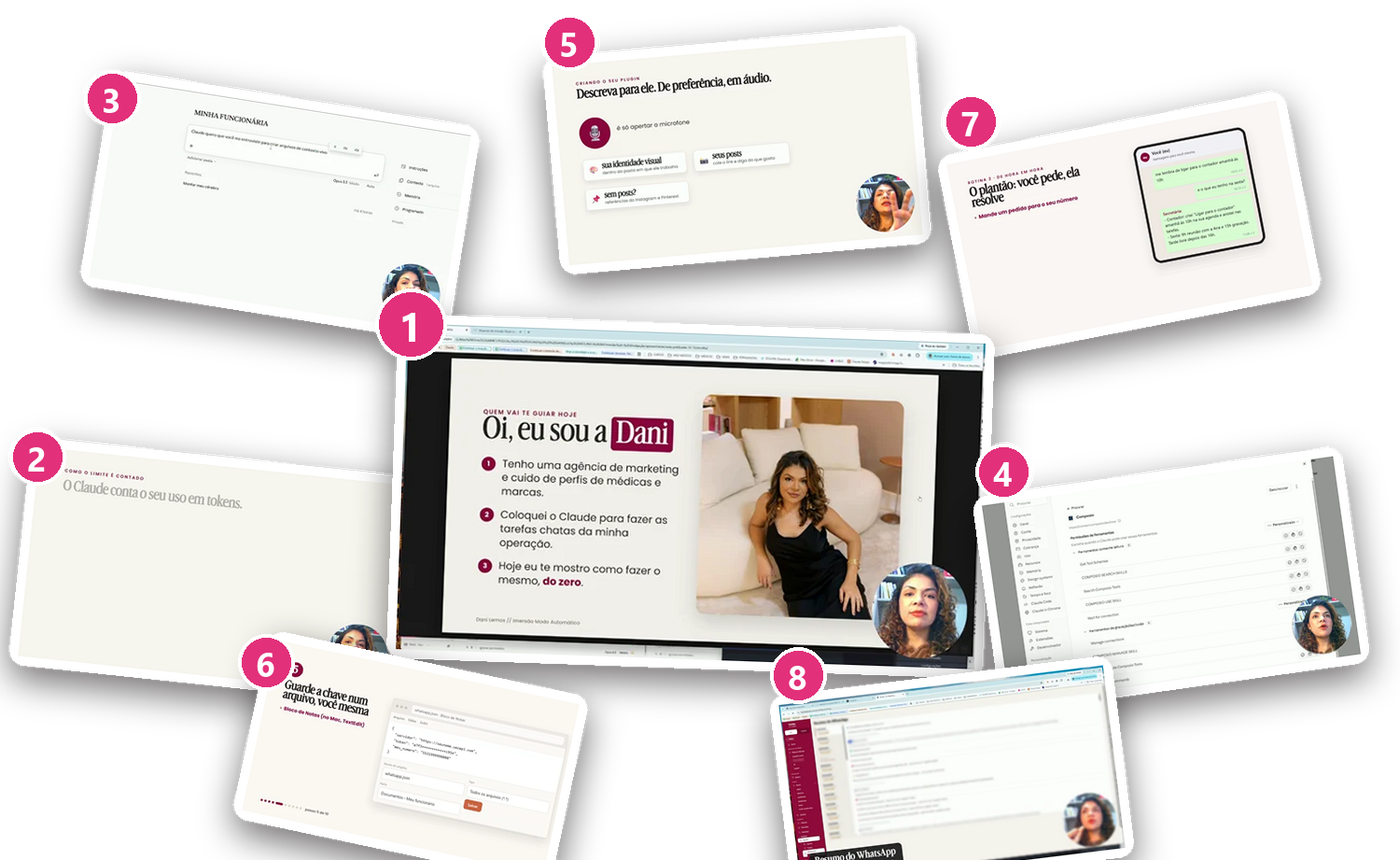
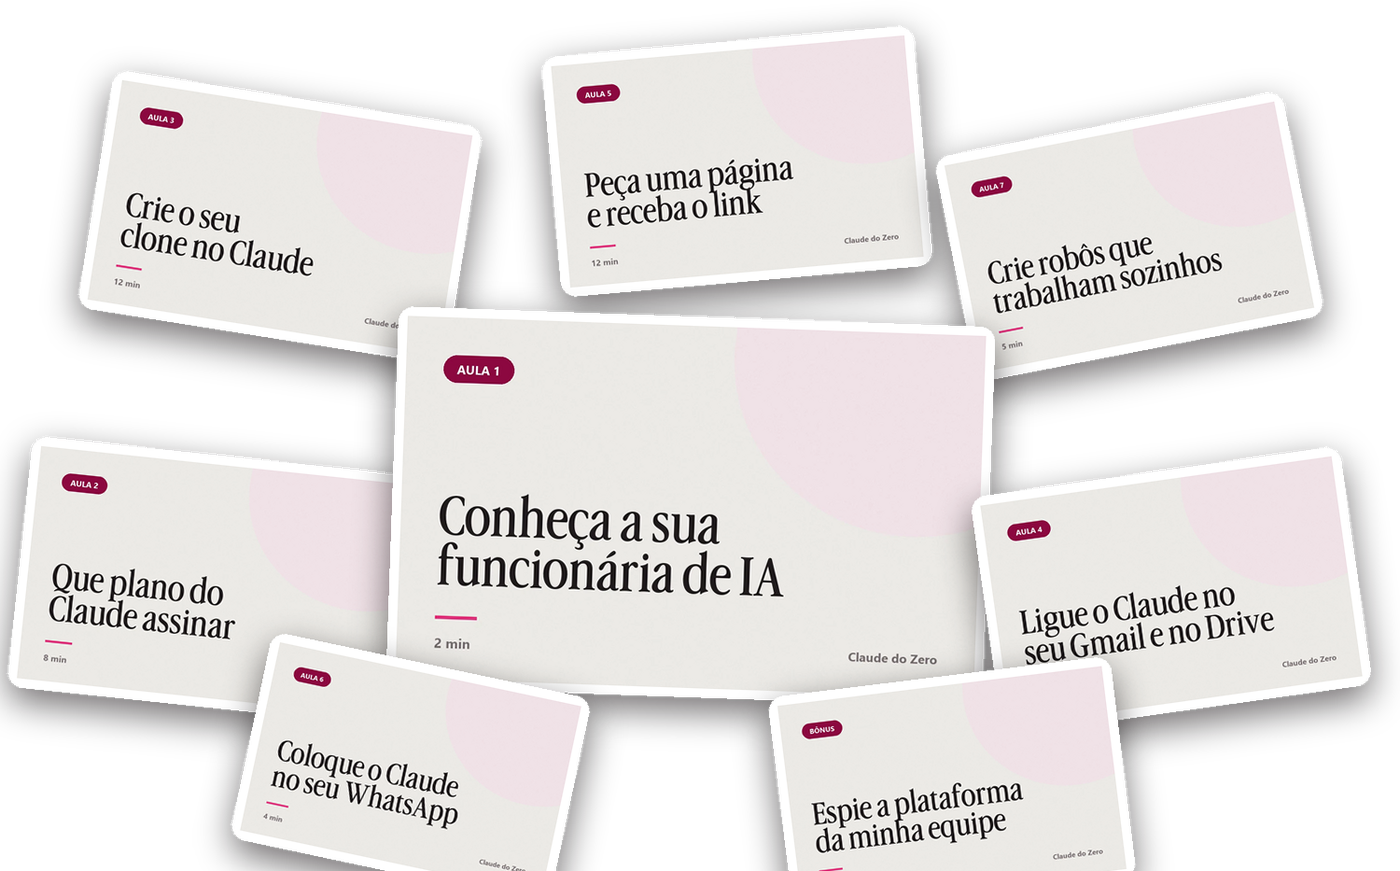
claude-do-zero: capas desenhadas com o tema de cada aula e tudo escrito como acao

diff --git a/claude-do-zero/index.html b/claude-do-zero/index.html
@@ -203,7 +203,7 @@ footer .wrap{border-top:1px solid var(--linha-esc);padding-block:22px 90px;displ
 .pilares>div{background:var(--noite-2);border:1px solid var(--linha-esc);border-radius:18px;
   padding:clamp(16px,2.2vw,24px) clamp(10px,1.6vw,20px);text-align:center;min-width:0}
 .pilares i{display:block;font:400 clamp(26px,3.6vw,38px)/1 var(--disp);font-style:normal;color:var(--acesa)}
-.pilares b{display:block;font:600 clamp(13px,1.7vw,16px)/1.2 var(--txt);margin-top:8px;color:var(--branco)}
+.pilares b{display:block;font:600 clamp(13px,1.6vw,16px)/1.28 var(--txt);margin-top:10px;color:var(--branco)}
 .pilares span{display:block;font-size:clamp(12.5px,1.5vw,14.5px);line-height:1.4;color:var(--suave-esc);margin-top:7px}
 .botao.vazado{background:transparent;color:var(--pessego);border:1px solid rgba(252,234,223,.38);box-shadow:none}
 .botao.vazado:hover{border-color:var(--acesa);background:rgba(226,48,122,.1)}
@@ -225,12 +225,12 @@ footer .wrap{border-top:1px solid var(--linha-esc);padding-block:22px 90px;displ
 .escuro .aula{background:var(--noite-2);border-color:var(--linha-esc)}
 .aula img{width:100%;height:auto;display:block;border-bottom:1px solid var(--linha)}
 .escuro .aula img{border-bottom-color:var(--linha-esc)}
-.aula .corpo{padding:16px 18px 20px}
+.aula .corpo{padding:15px 18px 19px}
 .aula .num{font:600 11px/1 var(--txt);letter-spacing:.14em;text-transform:uppercase;color:var(--mag)}
 .escuro .aula .num{color:var(--acesa)}
 .aula h3{font:400 clamp(20px,2.4vw,24px)/1.14 var(--disp);margin-top:9px}
 .escuro .aula h3{color:var(--branco)}
-.aula p{font-size:15px;line-height:1.5;color:var(--suave);margin-top:9px}
+.aula p{font-size:15.5px;line-height:1.5;color:var(--suave);margin:0}
 .escuro .aula p{color:var(--pessego)}
 
 /* ---------- A PILHA DO PRODUTO ----------
@@ -266,12 +266,12 @@ footer .wrap{border-top:1px solid var(--linha-esc);padding-block:22px 90px;displ
       <p class="lead">Você já abriu uma IA, pediu dez ideias de post e recebeu dez frases que não davam para publicar. <b>O problema não era a ferramenta. Era que ninguém te mostrou como ela funciona de verdade.</b></p>
       <div class="pilha">
         <img src="telas/pilha.png" width="1400" height="860" fetchpriority="high" decoding="async"
-             alt="As oito aulas do minicurso, uma ao lado da outra">
+             alt="As capas das oito aulas do minicurso, empilhadas">
       </div>
       <div class="pilares">
-        <div><i>01</i><b>Contexto</b><span>ele sabe quem você é</span></div>
-        <div><i>02</i><b>Conteúdo</b><span>volta na sua voz</span></div>
-        <div><i>03</i><b>Conexões</b><span>ligado no que você já usa</span></div>
+        <div><i>01</i><b>Ensine o Claude quem você é</b></div>
+        <div><i>02</i><b>Peça para ele escrever os seus conteúdos</b></div>
+        <div><i>03</i><b>Crie robôs que fazem o trabalho</b></div>
       </div>
       <div class="cta">
         <a class="botao" href="https://chk.eduzz.com/lniykl57?utm_source=meta&amp;utm_medium=cpc&amp;utm_campaign=claude-do-zero&amp;utm_content=A">Quero começar do zero <span class="seta">→</span></a>
@@ -292,75 +292,59 @@ footer .wrap{border-top:1px solid var(--linha-esc);padding-block:22px 90px;displ
     </div>
     <div class="trilho">
       <article class="aula">
-        <img src="aulas/a1.webp" width="560" height="315" loading="lazy" decoding="async"
-             alt="Um momento da aula 1: Aonde isso chega">
+        <img src="aulas/capa-1.webp" width="1200" height="750" loading="lazy" decoding="async"
+             alt="Capa da aula 1: Conheça a sua funcionária de IA">
         <div class="corpo">
-          <span class="num">2 min</span>
-          <h3>Aonde isso chega</h3>
-          <p>uma secretária de IA trabalhando no seu WhatsApp. Em dois minutos você vê o destino.</p>
+          <p>em dois minutos você vê o que vai ter no fim: alguém respondendo por você no WhatsApp.</p>
         </div>
       </article>
       <article class="aula">
-        <img src="aulas/a2.webp" width="560" height="315" loading="lazy" decoding="async"
-             alt="Um momento da aula 2: Pare de bater no limite">
+        <img src="aulas/capa-2.webp" width="1200" height="750" loading="lazy" decoding="async"
+             alt="Capa da aula 2: Que plano do Claude assinar">
         <div class="corpo">
-          <span class="num">8 min</span>
-          <h3>Pare de bater no limite</h3>
-          <p>qual plano assinar, qual modelo usar em cada coisa e dois truques para o seu limite render muito mais.</p>
+          <p>qual plano vale, qual modelo usar em cada coisa e dois truques para o limite render muito mais.</p>
         </div>
       </article>
       <article class="aula">
-        <img src="aulas/a3.webp" width="560" height="315" loading="lazy" decoding="async"
-             alt="Um momento da aula 3: Nunca mais explique quem você é">
+        <img src="aulas/capa-3.webp" width="1200" height="750" loading="lazy" decoding="async"
+             alt="Capa da aula 3: Crie o seu clone no Claude">
         <div class="corpo">
-          <span class="num">12 min</span>
-          <h3>Nunca mais explique quem você é</h3>
-          <p>você monta o cérebro uma vez e ele passa a lembrar o que você vende, para quem e como você fala.</p>
+          <p>ele aprende o que você vende, para quem e como você fala. E nunca mais esquece.</p>
         </div>
       </article>
       <article class="aula">
-        <img src="aulas/a4.webp" width="560" height="315" loading="lazy" decoding="async"
-             alt="Um momento da aula 4: Ele mexe no seu Gmail, na Agenda e no Drive">
+        <img src="aulas/capa-4.webp" width="1200" height="750" loading="lazy" decoding="async"
+             alt="Capa da aula 4: Ligue o Claude no seu Gmail e no Drive">
         <div class="corpo">
-          <span class="num">15 min</span>
-          <h3>Ele mexe no seu Gmail, na Agenda e no Drive</h3>
-          <p>como ligar o Claude nas ferramentas que você já abre todo dia, sem escrever uma linha de código.</p>
+          <p>ele passa a ler e escrever nas ferramentas que você já abre todo dia, sem uma linha de código.</p>
         </div>
       </article>
       <article class="aula">
-        <img src="aulas/a5.webp" width="560" height="315" loading="lazy" decoding="async"
-             alt="Um momento da aula 5: Peça uma tela e receba o link pronto">
+        <img src="aulas/capa-5.webp" width="1200" height="750" loading="lazy" decoding="async"
+             alt="Capa da aula 5: Peça uma página e receba o link">
         <div class="corpo">
-          <span class="num">12 min</span>
-          <h3>Peça uma tela e receba o link pronto</h3>
-          <p>propostas, páginas e ferramentas que você manda para a cliente no mesmo dia.</p>
+          <p>proposta, página ou ferramenta pronta para você mandar para a cliente no mesmo dia.</p>
         </div>
       </article>
       <article class="aula">
-        <img src="aulas/a6.webp" width="560" height="315" loading="lazy" decoding="async"
-             alt="Um momento da aula 6: O Claude no seu próprio número">
+        <img src="aulas/capa-6.webp" width="1200" height="750" loading="lazy" decoding="async"
+             alt="Capa da aula 6: Coloque o Claude no seu WhatsApp">
         <div class="corpo">
-          <span class="num">4 min</span>
-          <h3>O Claude no seu próprio número</h3>
-          <p>dez passos e ele começa a te responder no WhatsApp, como qualquer pessoa da sua equipe.</p>
+          <p>dez passos e ele começa a te responder no seu próprio número.</p>
         </div>
       </article>
       <article class="aula">
-        <img src="aulas/a7.webp" width="560" height="315" loading="lazy" decoding="async"
-             alt="Um momento da aula 7: Ele trabalha enquanto você dorme">
+        <img src="aulas/capa-7.webp" width="1200" height="750" loading="lazy" decoding="async"
+             alt="Capa da aula 7: Crie robôs que trabalham sozinhos">
         <div class="corpo">
-          <span class="num">5 min</span>
-          <h3>Ele trabalha enquanto você dorme</h3>
-          <p>bom dia, plantão, fechamento e arrumação rodando sozinhos, no horário que você escolher.</p>
+          <p>bom dia, plantão, fechamento e arrumação acontecendo no horário que você escolher.</p>
         </div>
       </article>
       <article class="aula">
-        <img src="aulas/a8.webp" width="560" height="315" loading="lazy" decoding="async"
-             alt="Um momento da aula 8: A plataforma que eu criei para a minha equipe">
+        <img src="aulas/capa-8.webp" width="1200" height="750" loading="lazy" decoding="async"
+             alt="Capa da aula 8: Espie a plataforma da minha equipe">
         <div class="corpo">
-          <span class="num">6 min</span>
-          <h3>A plataforma que eu criei para a minha equipe</h3>
-          <p>o tour completo por dentro, para você copiar a ideia no seu negócio.</p>
+          <p>o tour por dentro do que eu construí com o Claude, para você copiar a ideia.</p>
         </div>
       </article>
     </div>

diff --git a/claude-do-zero/aplicar-visual.py b/claude-do-zero/aplicar-visual.py
@@ -69,7 +69,7 @@ CSS = """
 .pilares>div{background:var(--noite-2);border:1px solid var(--linha-esc);border-radius:18px;
   padding:clamp(16px,2.2vw,24px) clamp(10px,1.6vw,20px);text-align:center;min-width:0}
 .pilares i{display:block;font:400 clamp(26px,3.6vw,38px)/1 var(--disp);font-style:normal;color:var(--acesa)}
-.pilares b{display:block;font:600 clamp(13px,1.7vw,16px)/1.2 var(--txt);margin-top:8px;color:var(--branco)}
+.pilares b{display:block;font:600 clamp(13px,1.6vw,16px)/1.28 var(--txt);margin-top:10px;color:var(--branco)}
 .pilares span{display:block;font-size:clamp(12.5px,1.5vw,14.5px);line-height:1.4;color:var(--suave-esc);margin-top:7px}
 .botao.vazado{background:transparent;color:var(--pessego);border:1px solid rgba(252,234,223,.38);box-shadow:none}
 .botao.vazado:hover{border-color:var(--acesa);background:rgba(226,48,122,.1)}
@@ -91,12 +91,12 @@ CSS = """
 .escuro .aula{background:var(--noite-2);border-color:var(--linha-esc)}
 .aula img{width:100%;height:auto;display:block;border-bottom:1px solid var(--linha)}
 .escuro .aula img{border-bottom-color:var(--linha-esc)}
-.aula .corpo{padding:16px 18px 20px}
+.aula .corpo{padding:15px 18px 19px}
 .aula .num{font:600 11px/1 var(--txt);letter-spacing:.14em;text-transform:uppercase;color:var(--mag)}
 .escuro .aula .num{color:var(--acesa)}
 .aula h3{font:400 clamp(20px,2.4vw,24px)/1.14 var(--disp);margin-top:9px}
 .escuro .aula h3{color:var(--branco)}
-.aula p{font-size:15px;line-height:1.5;color:var(--suave);margin-top:9px}
+.aula p{font-size:15.5px;line-height:1.5;color:var(--suave);margin:0}
 .escuro .aula p{color:var(--pessego)}
 
 /* ---------- A PILHA DO PRODUTO ----------
@@ -121,35 +121,33 @@ CSS = """
 #antes{padding-top:clamp(34px,4.5vw,56px)}
 """
 
-# O titulo de cada card e o que a pessoa GANHA, nao o nome da aula. Ninguem deseja assistir
-# uma aula de boas-vindas; todo mundo deseja parar de bater no limite e ter alguem
-# respondendo no WhatsApp. O minuto fica pequeno, como prova de que e rapido.
+# Cada card e uma ACAO que a pessoa vai conseguir fazer, no jeito que ela pensa:
+# "que plano assinar", "crie o seu clone". Nome de aula e categoria nao vendem nada.
+# O minuto fica pequeno, so como prova de que e rapido.
 AULAS = [
-    (1, "Aonde isso chega", "2 min",
-     "uma secretária de IA trabalhando no seu WhatsApp. Em dois minutos você vê o destino."),
-    (2, "Pare de bater no limite", "8 min",
-     "qual plano assinar, qual modelo usar em cada coisa e dois truques para o seu limite render muito mais."),
-    (3, "Nunca mais explique quem você é", "12 min",
-     "você monta o cérebro uma vez e ele passa a lembrar o que você vende, para quem e como você fala."),
-    (4, "Ele mexe no seu Gmail, na Agenda e no Drive", "15 min",
-     "como ligar o Claude nas ferramentas que você já abre todo dia, sem escrever uma linha de código."),
-    (5, "Peça uma tela e receba o link pronto", "12 min",
-     "propostas, páginas e ferramentas que você manda para a cliente no mesmo dia."),
-    (6, "O Claude no seu próprio número", "4 min",
-     "dez passos e ele começa a te responder no WhatsApp, como qualquer pessoa da sua equipe."),
-    (7, "Ele trabalha enquanto você dorme", "5 min",
-     "bom dia, plantão, fechamento e arrumação rodando sozinhos, no horário que você escolher."),
-    (8, "A plataforma que eu criei para a minha equipe", "6 min",
-     "o tour completo por dentro, para você copiar a ideia no seu negócio."),
+    (1, "Conheça a sua funcionária de IA", "2 min",
+     "em dois minutos você vê o que vai ter no fim: alguém respondendo por você no WhatsApp."),
+    (2, "Que plano do Claude assinar", "8 min",
+     "qual plano vale, qual modelo usar em cada coisa e dois truques para o limite render muito mais."),
+    (3, "Crie o seu clone no Claude", "12 min",
+     "ele aprende o que você vende, para quem e como você fala. E nunca mais esquece."),
+    (4, "Ligue o Claude no seu Gmail e no Drive", "15 min",
+     "ele passa a ler e escrever nas ferramentas que você já abre todo dia, sem uma linha de código."),
+    (5, "Peça uma página e receba o link", "12 min",
+     "proposta, página ou ferramenta pronta para você mandar para a cliente no mesmo dia."),
+    (6, "Coloque o Claude no seu WhatsApp", "4 min",
+     "dez passos e ele começa a te responder no seu próprio número."),
+    (7, "Crie robôs que trabalham sozinhos", "5 min",
+     "bom dia, plantão, fechamento e arrumação acontecendo no horário que você escolher."),
+    (8, "Espie a plataforma da minha equipe", "6 min",
+     "o tour por dentro do que eu construí com o Claude, para você copiar a ideia."),
 ]
 
 CARTOES = "\n".join(
     f"""      <article class="aula">
-        <img src="aulas/a{n}.webp" width="560" height="315" loading="lazy" decoding="async"
-             alt="Um momento da aula {n}: {titulo}">
+        <img src="aulas/capa-{n}.webp" width="1200" height="750" loading="lazy" decoding="async"
+             alt="Capa da aula {n}: {titulo}">
         <div class="corpo">
-          <span class="num">{tempo}</span>
-          <h3>{titulo}</h3>
           <p>{frase}</p>
         </div>
       </article>""" for n, titulo, tempo, frase in AULAS)
@@ -235,12 +233,12 @@ html = html.replace(H1_VELHO, H1_NOVO, 1)
 # 3. a pilha do produto, os tres pilares e o segundo botao, logo abaixo da promessa
 PILARES = """      <div class="pilha">
         <img src="telas/pilha.png" width="1400" height="860" fetchpriority="high" decoding="async"
-             alt="As oito aulas do minicurso, uma ao lado da outra">
+             alt="As capas das oito aulas do minicurso, empilhadas">
       </div>
       <div class="pilares">
-        <div><i>01</i><b>Contexto</b><span>ele sabe quem você é</span></div>
-        <div><i>02</i><b>Conteúdo</b><span>volta na sua voz</span></div>
-        <div><i>03</i><b>Conexões</b><span>ligado no que você já usa</span></div>
+        <div><i>01</i><b>Ensine o Claude quem você é</b></div>
+        <div><i>02</i><b>Peça para ele escrever os seus conteúdos</b></div>
+        <div><i>03</i><b>Crie robôs que fazem o trabalho</b></div>
       </div>
 """
 marca_cta = '      <div class="cta">\n'

diff --git a/claude-do-zero/montar-capas.py b/claude-do-zero/montar-capas.py
@@ -1,0 +1,100 @@
+"""Desenha as capas das aulas: uma por tema, no design system dela.
+
+A Dani vetou os quadros de video como capa. O que ela quer e um TEMPLATE: cada capa anuncia
+o que a aula faz, em frase de acao, do jeito que a pessoa pensa ("que plano do Claude
+assinar", "crie o seu clone no Claude").
+
+Molde da capa: papel gelo com grao, pastilha magenta com o numero, titulo grande em
+Advercase, filete magenta e o tempo no rodape. Clara de proposito, porque elas aparecem
+empilhadas em cima do fundo escuro do topo.
+
+Saida: aulas/capa-1.webp ... capa-8.webp
+"""
+import io
+import random
+from pathlib import Path
+
+from fontTools.ttLib import TTFont
+from PIL import Image, ImageDraw, ImageFont
+
+AQUI = Path(__file__).resolve().parent
+ASSETS = Path("G:/Meu Drive/DANIELLE   PROJETOS/PRODUTOS DL ESTÚDIO/04 KIT E PLUGINS/_paginas/assets")
+DESTINO = AQUI / "aulas"
+
+L, A = 1200, 750
+GELO = (244, 242, 238)
+PAPEL = (251, 250, 248)
+TINTA = (32, 26, 29)
+MAGENTA = (139, 8, 63)
+ACESA = (226, 48, 122)
+SUAVE = (120, 110, 114)
+
+CAPAS = [
+    (1, "Conheça a sua\nfuncionária de IA", "2 min"),
+    (2, "Que plano do\nClaude assinar", "8 min"),
+    (3, "Crie o seu\nclone no Claude", "12 min"),
+    (4, "Ligue o Claude no\nseu Gmail e no Drive", "15 min"),
+    (5, "Peça uma página\ne receba o link", "12 min"),
+    (6, "Coloque o Claude\nno seu WhatsApp", "4 min"),
+    (7, "Crie robôs que\ntrabalham sozinhos", "5 min"),
+    (8, "Espie a plataforma\nda minha equipe", "6 min"),
+]
+
+
+def fonte_de_woff2(arquivo, tamanho):
+    """Pillow nao le woff2, entao a fonte e convertida para ttf na memoria."""
+    f = TTFont(ASSETS / arquivo)
+    buf = io.BytesIO()
+    f.flavor = None
+    f.save(buf)
+    buf.seek(0)
+    return ImageFont.truetype(buf, tamanho)
+
+
+def poppins(tamanho):
+    for nome in ("poppinsb.ttf", "Poppins-SemiBold.ttf", "segoeuib.ttf", "arialbd.ttf"):
+        try:
+            return ImageFont.truetype(nome, tamanho)
+        except OSError:
+            continue
+    return ImageFont.load_default()
+
+
+def grao(img, forca=7):
+    random.seed(4)
+    ruido = Image.effect_noise((img.width, img.height), 24).convert("L")
+    return Image.blend(img, Image.merge("RGB", (ruido, ruido, ruido)), forca / 100)
+
+
+for numero, titulo, tempo in CAPAS:
+    capa = Image.new("RGB", (L, A), GELO)
+    d = ImageDraw.Draw(capa)
+
+    # uma mancha magenta de canto, bem leve, para o fundo nao ficar cru
+    manchinha = Image.new("RGB", (L, A), GELO)
+    ImageDraw.Draw(manchinha).ellipse([L - 520, -300, L + 240, 420], fill=(250, 232, 240))
+    capa = Image.blend(capa, manchinha, 0.85)
+    capa = grao(capa)
+    d = ImageDraw.Draw(capa)
+
+    margem = 78
+
+    # pastilha com o numero da aula
+    rotulo = "BÔNUS" if numero == 8 else f"AULA {numero}"
+    fr = poppins(26)
+    larg = d.textlength(rotulo, font=fr)
+    d.rounded_rectangle([margem, margem, margem + larg + 56, margem + 56], radius=28, fill=MAGENTA)
+    d.text((margem + 28 + larg / 2, margem + 28), rotulo, font=fr, fill=(255, 255, 255), anchor="mm")
+
+    # titulo em Advercase, a estrela da capa
+    ft = fonte_de_woff2("Advercase-Regular.woff2", 92)
+    d.multiline_text((margem, A - 300), titulo, font=ft, fill=TINTA, spacing=12, anchor="ls")
+
+    # filete magenta e o tempo no rodape
+    d.rectangle([margem, A - 132, margem + 86, A - 126], fill=ACESA)
+    d.text((margem, A - 96), tempo, font=poppins(28), fill=SUAVE, anchor="la")
+    d.text((L - margem, A - 96), "Claude do Zero", font=poppins(26), fill=SUAVE, anchor="ra")
+
+    saida = DESTINO / f"capa-{numero}.webp"
+    capa.save(saida, "WEBP", quality=90, method=6)
+    print(f"capa-{numero} {saida.stat().st_size // 1024} KB  {titulo.replace(chr(10), ' ')}")

diff --git a/claude-do-zero/montar-pilha.py b/claude-do-zero/montar-pilha.py
@@ -2,8 +2,8 @@
 
 E o mecanismo da pagina da Maria Wendt que a Dani mandou adaptar: um monte de material
 empilhado, numerado, para a pessoa ver de uma vez que e MUITA coisa. A diferenca e que aqui
-nao tem mockup inventado: cada peca da pilha e um quadro de verdade de uma aula do
-minicurso, o mesmo que ja esta nos cards mais abaixo.
+nao tem mockup inventado: cada peca da pilha e a capa de uma aula de verdade,
+a mesma que aparece nos cards mais abaixo.
 
 Saida: telas/pilha.png (fundo transparente, para cair em qualquer cor de secao).
 """
@@ -20,14 +20,14 @@ LARGURA, ALTURA = 1500, 950
 
 # (arquivo, largura da peca, centro x, centro y, giro em graus) — a 1 fica no meio e maior
 PECAS = [
-    ("a3.webp", 380, 300, 250, -9),
-    ("a5.webp", 380, 790, 190, 5),
-    ("a7.webp", 360, 1210, 270, 11),
-    ("a2.webp", 400, 230, 640, -6),
-    ("a1.webp", 620, 740, 560, -2),
-    ("a4.webp", 380, 1255, 650, 8),
-    ("a6.webp", 330, 440, 840, -12),
-    ("a8.webp", 350, 1020, 860, 7),
+    ("capa-3.webp", 380, 300, 250, -9),
+    ("capa-5.webp", 380, 790, 190, 5),
+    ("capa-7.webp", 360, 1210, 270, 11),
+    ("capa-2.webp", 400, 230, 640, -6),
+    ("capa-1.webp", 620, 740, 560, -2),
+    ("capa-4.webp", 380, 1255, 650, 8),
+    ("capa-6.webp", 330, 440, 840, -12),
+    ("capa-8.webp", 350, 1020, 860, 7),
 ]
 NUMEROS = [3, 5, 7, 2, 1, 4, 6, 8]
 
@@ -73,18 +73,6 @@ pilha = Image.new("RGBA", (LARGURA, ALTURA), (0, 0, 0, 0))
 for (arquivo, largura, cx, cy, giro), numero in zip(PECAS, NUMEROS):
     p = com_sombra(peca(CAPAS / arquivo, largura), giro)
     pilha.alpha_composite(p, (cx - p.width // 2, cy - p.height // 2))
-
-# as bolinhas numeradas vao por cima de tudo, no canto de cima de cada peca
-desenho = ImageDraw.Draw(pilha)
-f = fonte(40)
-for (arquivo, largura, cx, cy, giro), numero in zip(PECAS, NUMEROS):
-    raio = 38 if numero == 1 else 30
-    bx = cx - largura // 2 + round(math.cos(math.radians(giro)) * 10)
-    by = cy - round(largura * 0.28) - 10
-    desenho.ellipse([bx - raio, by - raio, bx + raio, by + raio], fill=MAGENTA,
-                    outline=(255, 255, 255, 255), width=4)
-    desenho.text((bx, by + 1), str(numero), font=fonte(raio + 6), fill=(255, 255, 255, 255),
-                 anchor="mm")
 
 pilha = pilha.crop(pilha.getbbox())
 pilha.thumbnail((1400, 1400), Image.LANCZOS)
